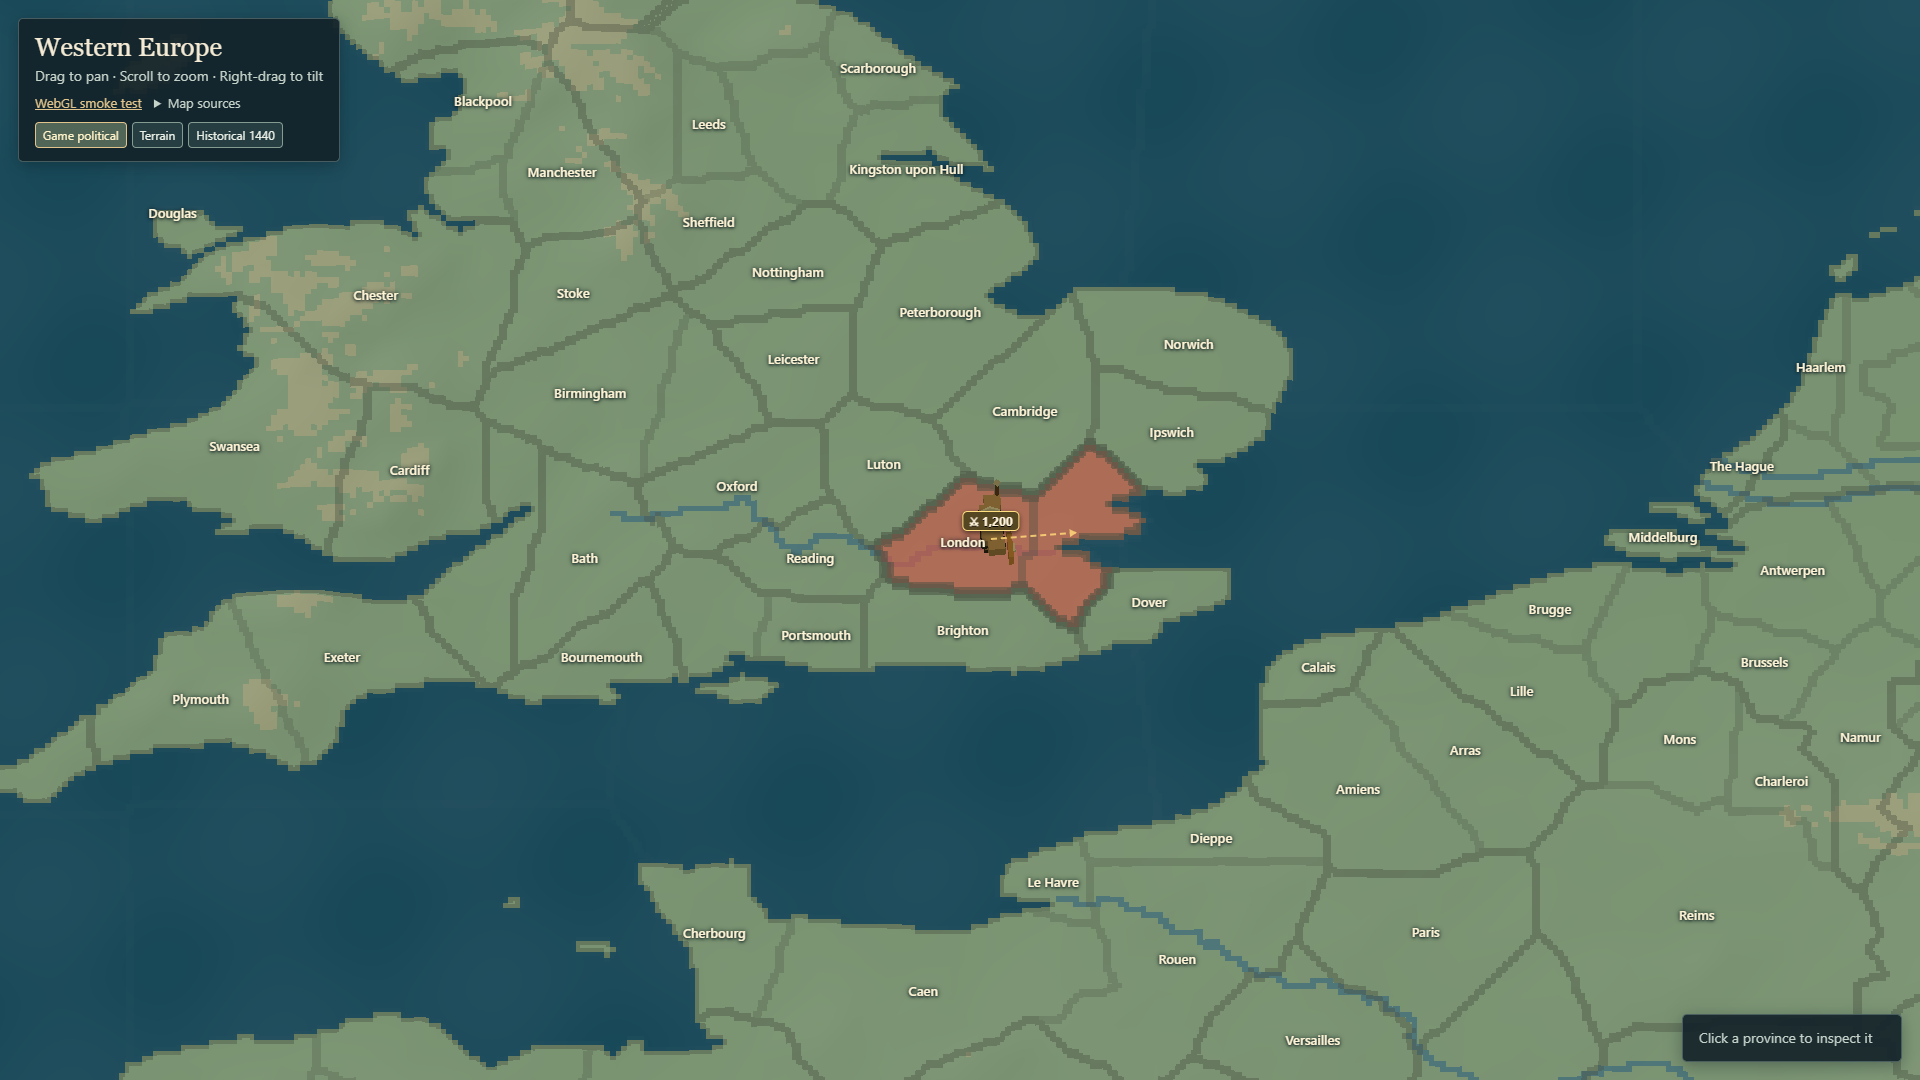
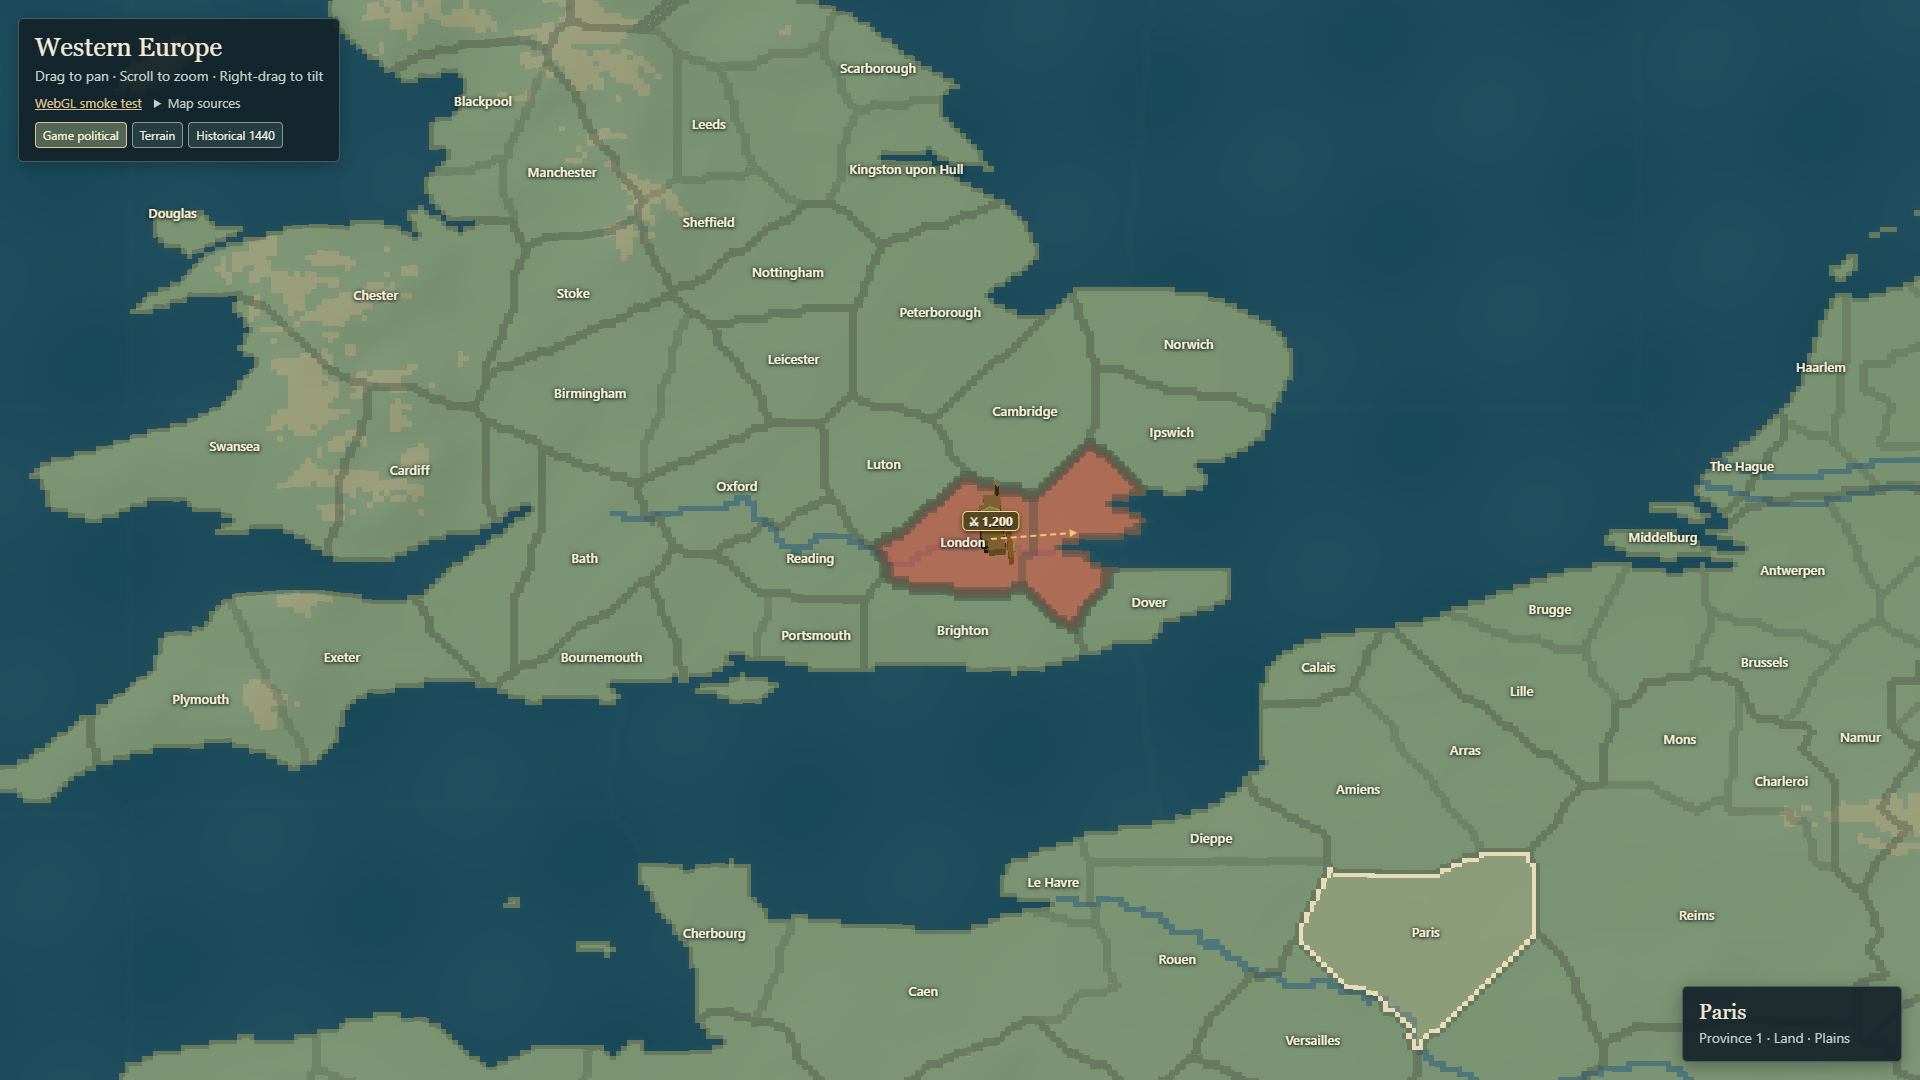
feat(ui): add province hover and selection feedback

diff --git a/ui/src/map/MapPage.tsx b/ui/src/map/MapPage.tsx
@@ -93,6 +93,7 @@ export function MapPage() {
   const [status, setStatus] = useState<'loading' | 'ready' | 'error'>('loading');
   const [error, setError] = useState('');
   const [selected, setSelected] = useState<Province | null>(null);
+  const [hoveredProvince, setHoveredProvince] = useState<{ id: number; x: number; y: number } | null>(null);
   const [inspectedCountry, setInspectedCountry] = useState<number | null>(null);
   const [provinceNames, setProvinceNames] = useState<ReadonlyMap<number, Province>>(new Map());
   const [mapAssets, setMapAssets] = useState<MapAssets | null>(null);
@@ -158,6 +159,18 @@ export function MapPage() {
   const shownArmy = game?.armies?.find((army) => army.id === inspectedArmy);
   const mayTarget = Boolean(order && shownArmy && shownArmy.country_id === game?.local_country_id);
   const onProvinceClick = useRef<(province: Province | null) => void>(() => undefined);
+  const hoverTimer = useRef<number | undefined>(undefined);
+  const onProvinceHover = useRef<(id: number, x: number, y: number) => void>(() => undefined);
+  useEffect(() => {
+    onProvinceHover.current = (id, x, y) => {
+      window.clearTimeout(hoverTimer.current);
+      if (id === 0) {
+        setHoveredProvince(null);
+        return;
+      }
+      hoverTimer.current = window.setTimeout(() => setHoveredProvince({ id, x, y }), 300);
+    };
+  }, []);
   useEffect(() => {
     onProvinceClick.current = (province) => {
       setSelected(province);
@@ -228,6 +241,7 @@ export function MapPage() {
           host,
           assets,
           (id) => onProvinceClick.current(provinces.get(id) ?? null),
+          (id, x, y) => onProvinceHover.current(id, x, y),
           (id) => {
             setSection('military');
             setInspectedArmy(id);
@@ -271,6 +285,7 @@ export function MapPage() {
       abort.abort();
       window.clearTimeout(warmupTimer);
       window.clearTimeout(measurementTimer);
+      window.clearTimeout(hoverTimer.current);
       if (viewer && window.strategyMapTest === viewer.testControls) delete window.strategyMapTest;
       if (viewerRef.current === viewer) viewerRef.current = undefined;
       viewer?.dispose();
@@ -320,6 +335,15 @@ export function MapPage() {
         canSetSpeed={!guest} send={hostGame.send} />}
       {game && <EventPopup events={game.pending_events ?? []} localCountryId={game.local_country_id}
         pending={hostGame.pending} error={hostGame.commandError} send={hostGame.send} />}
+      {hoveredProvince && !benchmark && (() => {
+        const province = provinceNames.get(hoveredProvince.id);
+        const name = province ? mapAssets?.names.get(province.name_key ?? '') ?? `Province ${hoveredProvince.id}` : '';
+        return name ? <div className="map-hover-tooltip" role="tooltip"
+          style={{ left: Math.min(hoveredProvince.x + 14, window.innerWidth - 250),
+            top: Math.min(hoveredProvince.y + 14, window.innerHeight - 56) }}>
+          {name}
+        </div> : null;
+      })()}
       {hostGame.connected && !game && (
         <p className="game-clock map-panel" role={hostGame.connectionError ? 'alert' : 'status'}>
           {hostGame.connectionError || 'Connecting to the game host…'}

diff --git a/ui/src/map/mapViewer.ts b/ui/src/map/mapViewer.ts
@@ -87,6 +87,7 @@ export function createMapViewer(
   viewport: HTMLElement,
   assets: MapAssets,
   onSelect: (id: number) => void,
+  onHover: (id: number, clientX: number, clientY: number) => void,
   onArmySelect: (id: number) => void,
   onFleetSelect: (id: number) => void,
   manualFrames = false,
@@ -168,6 +169,7 @@ export function createMapViewer(
     rasterSize: { value: new THREE.Vector2(width, height) },
     lookupSize: { value: new THREE.Vector2(lookupWidth, lookupHeight) },
     selectedId: { value: 0 },
+    hoveredId: { value: 0 },
     hasOccupations: { value: false },
     mapMode: { value: 0 },
     seconds: { value: 0 },
@@ -427,6 +429,30 @@ export function createMapViewer(
   const fleetLayer = createFleetLayer(scene, viewport, provinceAnchor, camera, onFleetSelect);
   let targeting = false;
   let press: { x: number; y: number; id: number } | null = null;
+  let hoverFrame = 0;
+  let hoverX = 0;
+  let hoverY = 0;
+  let previousHover = -1;
+  function pointerMove(event: PointerEvent) {
+    hoverX = event.clientX;
+    hoverY = event.clientY;
+    if (hoverFrame || press) return;
+    hoverFrame = requestAnimationFrame(() => {
+      hoverFrame = 0;
+      const id = pickAt(hoverX, hoverY);
+      if (id === previousHover) return;
+      previousHover = id;
+      uniforms.hoveredId.value = id;
+      onHover(id, hoverX, hoverY);
+    });
+  }
+  function pointerLeave() {
+    if (hoverFrame) cancelAnimationFrame(hoverFrame);
+    hoverFrame = 0;
+    previousHover = 0;
+    uniforms.hoveredId.value = 0;
+    onHover(0, 0, 0);
+  }
   function pointerDown(event: PointerEvent) {
     if (event.button === 0 && event.isPrimary) {
       renderer.domElement.focus({ preventScroll: true });
@@ -455,6 +481,8 @@ export function createMapViewer(
   renderer.domElement.addEventListener('pointerdown', pointerDown);
   renderer.domElement.addEventListener('pointerup', pointerUp);
   renderer.domElement.addEventListener('pointercancel', cancelPointer);
+  renderer.domElement.addEventListener('pointermove', pointerMove);
+  renderer.domElement.addEventListener('pointerleave', pointerLeave);
 
   let sample: number[] = [];
   let recording = false;
@@ -588,11 +616,14 @@ export function createMapViewer(
     },
     dispose() {
       cancelAnimationFrame(frame);
+      if (hoverFrame) cancelAnimationFrame(hoverFrame);
       observer.disconnect();
       controls.dispose();
       renderer.domElement.removeEventListener('pointerdown', pointerDown);
       renderer.domElement.removeEventListener('pointerup', pointerUp);
       renderer.domElement.removeEventListener('pointercancel', cancelPointer);
+      renderer.domElement.removeEventListener('pointermove', pointerMove);
+      renderer.domElement.removeEventListener('pointerleave', pointerLeave);
       renderer.domElement.remove();
       labelLayer.remove();
       armyLayer.dispose();

diff --git a/ui/src/map/mapShaders.ts b/ui/src/map/mapShaders.ts
@@ -53,6 +53,7 @@ uniform sampler2D heightRaster;
 uniform vec2 rasterSize;
 uniform vec2 lookupSize;
 uniform float selectedId;
+uniform float hoveredId;
 uniform float seconds;
 uniform bool hasOccupations;
 uniform int mapMode;
@@ -151,9 +152,13 @@ void main() {
   float borderOpacity = border.x * (0.15 + 0.17 * detail) + border.y * 0.16 + country * 0.62;
   if (water > 0.5) borderOpacity *= 0.07;
   color = mix(color, water > 0.5 ? vec3(0.070, 0.153, 0.178) : vec3(0.066, 0.085, 0.057), clamp(borderOpacity, 0.0, 0.78));
-  if (selectedId > 0.0 && abs(id - selectedId) < 0.5) {
-    color = mix(color, vec3(0.84, 0.62, 0.27), 0.18 + border.x * 0.60);
-  }
+  float selected = selectedId > 0.0 ? 1.0 - step(0.5, abs(id - selectedId)) : 0.0;
+  float hovered = hoveredId > 0.0 ? 1.0 - step(0.5, abs(id - hoveredId)) : 0.0;
+  float pulse = 0.5 + 0.5 * sin(seconds * 3.2);
+  color = mix(color, vec3(0.91, 0.72, 0.39), selected * (0.08 + pulse * 0.04));
+  color = mix(color, vec3(0.99, 0.85, 0.58), selected * border.x * 0.78);
+  color = mix(color, vec3(0.91, 0.88, 0.75), hovered * border.x * 0.72);
+  color = mix(color, vec3(0.94, 0.83, 0.60), hovered * 0.07);
 
   float edgeDistance = min(min(mapUv.x, 1.0 - mapUv.x), min(mapUv.y, 1.0 - mapUv.y));
   float edgeFade = 1.0 - smoothstep(0.0, 0.045, edgeDistance);

diff --git a/ui/src/style.css b/ui/src/style.css
@@ -28,6 +28,7 @@ p { font-size: 14px; color: #a8b6cf; }
 .map-viewport canvas:active { cursor: grabbing; }
 .map-viewport canvas:focus-visible { outline: 2px solid #e1c48c; outline-offset: -3px; }
 .map-label-layer { position: absolute; inset: 0; pointer-events: none; overflow: hidden; }
+.map-hover-tooltip { position: fixed; z-index: 12; max-width: 220px; padding: 6px 9px; border: 1px solid #8c9d91; border-radius: 4px; background: #142329f2; color: #f5ebd5; font: 13px/1.25 system-ui, sans-serif; box-shadow: 0 3px 10px #07141b99; pointer-events: none; }
 .map-label { position: absolute; transform: translate(-50%, -50%); color: #fff5d6; font: 600 13px/1.2 system-ui, sans-serif; white-space: nowrap; text-shadow: 0 1px 3px #07141b, 0 0 5px #07141b; }
 .map-label[data-kind='country'] { font-size: 17px; letter-spacing: .04em; }
 .map-label--capital { color: #f9d98f; }

diff --git a/docs/milestones/M11_content.md b/docs/milestones/M11_content.md
@@ -19,6 +19,6 @@ Docs: AI.md
 ## Content batches
 - Brittany, 1440: five Cliopatria v0.1.3 [CC BY 4.0](https://github.com/Seshat-Global-History-Databank/cliopatria/releases/tag/v0.1.3) Duchy of Brittany polygon matches (`brest`, `lorient`, `nantes`, `rennes`, `st_brieuc`) are assigned to the new `bre` country. The generated `polities_1440.json` records overlap evidence; it is not used as an automatic owner table. [Brittany's official heritage inventory](https://patrimoine.bzh/gertrude-diffusion/dossier/IA29001760) documents Duke Jean V's 1399–1442 reign; an [edited historical chronicle](https://bibliotheque.idbe.bzh/data/cle_11_fevrier_2016/cle_14_18_fevrier_2016/Chronique_de_Bretagne_de_Jean_de_Saint_Paul_.pdf) gives his birth date as 24 December 1389. The [Château des ducs de Bretagne](https://www.chateaunantes.fr/wp-content/uploads/2020/06/dp_austria.pdf) identifies Nantes as the dukes' capital. His 3/3/3 skills and starting economy are gameplay tuning values, not historical measurements.
 - Brittany's `bre.svg` is an original ermine design referencing [BnF's 1417–1422 Jean V coin](https://catalogue.bnf.fr/ark:/12148/cb44989244k) and [ducal seal](https://medaillesetantiques.bnf.fr/ws/catalogue/app/collection/record/ark:/12148/c33gb1h34f). Its license and derivation are in `ASSETS.md`; the UI displays it by the `bre` country tag.
-- Milan, 1440: four full-coverage Cliopatria v0.1.3 polygon matches (`milan`, `como`, `lugano`, `bellinzona`) are assigned to the Duchy of Milan; partial-overlap cells (`parma`, `novara`, `asti`) remain explicitly unowned. [Treccani's biography](https://www.treccani.it/enciclopedia/filippo-maria-visconti-duca-di-milano_%2528Dizionario-Biografico%2529/) identifies Filippo Maria Visconti as born in Milan on 3 September 1392 and Duke from 1412; the [Chazen Museum](https://chazen.wisc.edu/collection/10908/filippo-maria-visconti-duke-of-milan/) catalogs Pisanello's 1441 medal of him. The [Lombardia cultural heritage record](https://www.lombardiabeniculturali.it/opere-arte/schede/3o280-00608/) dates the Visconti arms in the Duchy of Milan to 1395; the game's flag is an original simplified SVG. Country color, ruler skills and economy are gameplay values, not historical measurements.
+- Milan, 1440: `milan`, `como`, and `lugano` have full-cell Cliopatria v0.1.3 polygon matches; `bellinzona` has 637/639 overlap pixels (99.7%). These four cells are assigned to the Duchy of Milan; partial-overlap cells (`parma`, `novara`, `asti`) remain explicitly unowned. [Treccani's biography](https://www.treccani.it/enciclopedia/filippo-maria-visconti-duca-di-milano_%2528Dizionario-Biografico%2529/) identifies Filippo Maria Visconti as born in Milan on 3 September 1392 and Duke from 1412; the [Chazen Museum](https://chazen.wisc.edu/collection/10908/filippo-maria-visconti-duke-of-milan/) catalogs Pisanello's 1441 medal of him. The [Lombardia cultural heritage record](https://www.lombardiabeniculturali.it/opere-arte/schede/3o280-00608/) dates the Visconti arms in the Duchy of Milan to 1395; the game's flag is an original simplified SVG. Country color, ruler skills and economy are gameplay values, not historical measurements.
 - Open name correction: `lorient` is a stable map key but [the city was founded in 1666](https://patrimoine.lorient.bzh/histoire/lieux/centre-ville/les-quartiers/le-centre-historique). Correct the 1440 display name in a separate map-identity-aware PR. The cell's geographic ownership is supported by the Brittany polygon; this batch does not claim the city existed in 1440.
 - Holy Roman Empire minor states, Kalmar Union cells, and unmatched Irish cells remain unassigned pending finer evidence. The four unowned cells broadly matched to the Crown of Aragon also remain unassigned because the sidecar's best-overlap label is not reliable evidence of their 1440 jurisdiction.

diff --git a/docs/ROADMAP.md b/docs/ROADMAP.md
@@ -43,14 +43,14 @@ profile-weighted AI choices and a host-command UI panel. Needs-aware AI weights,
 historical catalogs for the remaining 1440 countries, and M9 acceptance remain
 open.
 M5b.4 camera, water, borders and terrain have browser screenshot evidence; native 1080p FPS/RAM and owner visual review remain open for M5b acceptance.
-M5b.5 map modes, historical evidence display, English fallback labels, army badges, and clickable fleet badges with ship counts and route preview are implemented; Russian localization, native performance and owner visual acceptance remain open.
+M5b.5 map modes, historical evidence display, English labels, army/fleet badges, fleet route preview, province hover highlighting, delayed name tooltips, and selected-province outline/pulse are implemented. Browser smoke covers province picking and hover tooltip; Russian localization, native performance, screenshot review and owner visual acceptance remain open.
 
 M6 alliance and royal-marriage slices implemented: validated 30-day offers, acceptance/rejection, spouse links and death cleanup, +20 temporary effective opinion, deterministic AI factors, and network/save transport. The guarantee slice adds unilateral indefinite guarantees, automatic defensive joining, broken-promise penalties and AI offers. Automatic post-war truces are visible in the country and military panels. The vassalage slice adds 30-day offers, 10% monthly tribute, automatic defense, independence wars, AI answers and typed LAN/UI commands. The country-list diplomacy panel projects opinions and alliances, sends alliance proposals and responses through host-validated commands, and supports eligible ruler/heir marriage proposals. Full two-player UI acceptance and M6 acceptance remain open.
 The royal-marriage slice uses named adult characters and synthetic tests; the 1440 content currently has no female character or modeled existing spouse links. Historical marriage content is an M11 gap.
 The war-participants prerequisite supports additional countries on either side of one war, with side-based armies, sieges, peace and pairwise truces.
 M8 sea graph and strict v3 port validation are complete. The fleet/transport slice adds deterministic sea movement, port embarkation and landing, and an AI amphibious landing test. The naval combat slice resolves opposing fleets and transport losses. The blockade slice suppresses tax from unopposed wartime blockaded ports. Original instanced low-poly fleet models are implemented; attrition, construction and full AI L3 acceptance remain open.
 The 1440 scenario currently starts with neutral opinions; historically supported positive opening relationships and their values belong to M11 content review. Until then, the alliance AI's favorable branch is covered by a synthetic scenario test.
-M11 adds a sourced Duchy of Milan country slice on four full-coverage 1440 polygon matches; partial-overlap provinces around its borders remain unowned. The 8-country scenario passed a 10-year seed-1440 AI smoke; the wider European country and ruler set and M10 multi-seed soak remain incomplete.
+M11 adds a sourced Duchy of Milan country slice on three full-cell and one 99.7%-overlap 1440 polygon match; lower-overlap border provinces remain unowned. The 8-country scenario passed a 10-year seed-1440 AI smoke; the wider European country and ruler set and M10 multi-seed soak remain incomplete.
 
 M13 is the first post-beta milestone; colonization, trade, religion and later eras follow.
 M10 has a yearly multi-seed headless soak report harness; L4 strategy, balance acceptance and the scheduled workflow remain open until M6–M9 mechanics and M11 beta content are ready.

diff --git a/docs/MAP_PIPELINE.md b/docs/MAP_PIPELINE.md
@@ -82,7 +82,7 @@ the default Historical 1440 view colors them as source evidence. Use
 - Capture four repeatable 1920 × 1080 browser screenshots with `cd ui && npm run capture:map`; output is `docs/screenshots/m5b4/`. The capture uses Chromium's software WebGL renderer and is visual review evidence, not a hardware FPS result.
 - M5b.5 adds Game political, Terrain and Historical 1440 display modes. Without a game snapshot, the map starts in Historical 1440 with a visible reference-only legend. Once an active game snapshot arrives, it defaults to Game political unless the player manually chose a mode. Game political colors still come only from host `GameSnapshot.owners`; the historical view uses a separate lookup from `polities_1440.json` after map-version/hash validation. Unknown matches are neutral, and coarse groups carry a low-precision label. The presentation overlay uses `names.en.json` for province names; Russian localization has not been authored. Sea-cell outlines are subdued in ordinary modes while raster picking remains active.
 - Historical polity colors use a muted 12-color atlas palette assigned deterministically from the neighboring-polity graph, so bordering entities use separated hues. Country borders render wider and darker than internal province edges. Coarse and unmatched evidence remains visibly hatched and is not presented as game ownership.
-- Capture four named Historical/Terrain views and one visual-only army marker demonstration with `cd ui && npm run capture:map-modes`; output is `docs/screenshots/m5b5/` (Chromium software renderer, not hardware FPS evidence).
+- Capture four named Historical/Terrain views, one hover/selection view, and visual-only army/fleet marker demonstrations with `cd ui && npm run capture:map-modes`; output is `docs/screenshots/m5b5/` (Chromium software renderer, not hardware FPS evidence).
 
 ## Budgets
 Province raster for beta region <= ~4096x2048. To measure the 1080p viewport, run the built Windows executable with `--map-benchmark`. It opens fullscreen and displays the actual drawing-buffer size and frame timings. Record measured RAM and FPS in DECISIONS.md with the GPU and method.

diff --git a/docs/ASSETS.md b/docs/ASSETS.md
@@ -42,4 +42,4 @@
 | `data/map/europe/{heightmap.png,terrain.png,rivers.png}` | NOAA ETOPO1 and Natural Earth inputs above | NOAA, Natural Earth contributors and project team | Public domain sources, original encoding | Full extent terrain rasters |
 | `docs/screenshots/europe-alpha/europe-1080p.png` | Generated from the registered Europe map rasters and historical evidence colors with `ui/tests/europe.screenshot.spec.mjs` | Project team and the credited map-data authors | CC BY 4.0 for Cliopatria-derived content | 1920 × 1080 Chromium software-WebGL alpha review capture; evidence, not map source data. |
 | `docs/screenshots/m5b4/*.png` | Generated from the registered Western Europe map rasters above with `npm run capture:map` | Project team and the credited map-data authors | CC BY 4.0 for Cliopatria-derived content | Four 1920 × 1080 Chromium software-WebGL review captures; screenshots are evidence, not additional map source data. |
-| `docs/screenshots/m5b5/*.png` | Generated from the registered Western Europe map rasters and `polities_1440.json` with `npm run capture:map-modes` | Project team and the credited map-data authors | CC BY 4.0 for Cliopatria-derived content | Six 1920 × 1080 Chromium software-WebGL review captures; army and fleet marker views use visual-only mock units. |
+| `docs/screenshots/m5b5/*.png` | Generated from the registered Western Europe map rasters and `polities_1440.json` with `npm run capture:map-modes` | Project team and the credited map-data authors | CC BY 4.0 for Cliopatria-derived content | Seven 1920 × 1080 Chromium software-WebGL review captures; hover/selection and army/fleet marker views are visual demonstrations, with mock units in the latter. |

diff --git a/docs/milestones/M05b_visual_pass.md b/docs/milestones/M05b_visual_pass.md
@@ -13,6 +13,7 @@ Why: M2-M5 acceptance was technical only. Later systems (diplomacy, naval, AI) a
 - Camera: map fills the viewport; clamp pan/zoom/tilt; no visible void or skewed edges; map center not hidden by panels.
 - Water: replace the repeating stripe pattern with depth-based color and subtle animation; no visible tiling at default zoom.
 - Borders: thin province borders, thicker country borders, area borders by zoom; no jagged artifacts at default zoom.
+- Hover: lift the hovered province and show its localized name after a short delay; selection uses a distinct outline and subtle pulse.
 - Terrain: hillshade from heightmap, distinct terrain colors, visible rivers.
 - Labels: country names at low zoom, city/province names at high zoom, capital markers.
 - Map modes: political and terrain.
@@ -32,4 +33,4 @@ Why: M2-M5 acceptance was technical only. Later systems (diplomacy, naval, AI) a
 - Existing tests and AI smoke test still pass.
 
 ## Suggested task split (one PR each)
-5b.1 docs patch; 5b.2 map rebuild + ownership; 5b.3 movement calibration + tick, snapshot and delta measurements; 5b.4 camera/water/borders/terrain + native 1080p FPS/RAM after the visual changes; 5b.5 labels, map modes, unit markers; 5b.6 UI layout, UI_STYLE.md, localization of displayed keys.
+5b.1 docs patch; 5b.2 map rebuild + ownership; 5b.3 movement calibration + tick, snapshot and delta measurements; 5b.4 camera/water/borders/terrain + native 1080p FPS/RAM after the visual changes; 5b.5 labels, map modes, unit markers, hover/selection feedback; 5b.6 UI layout, UI_STYLE.md, localization of displayed keys.
